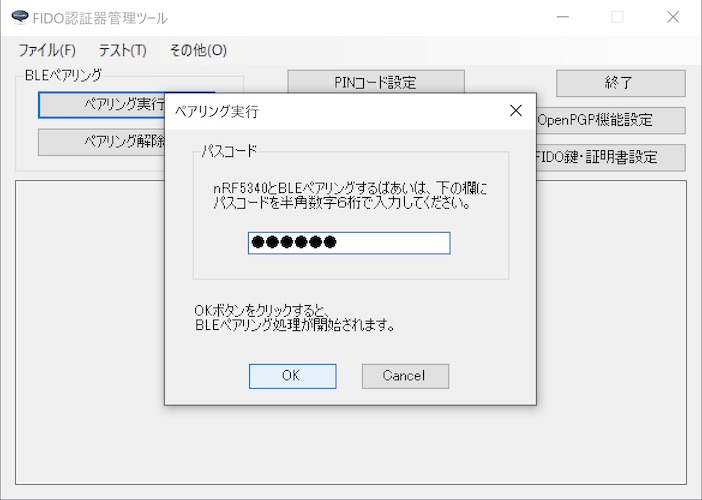
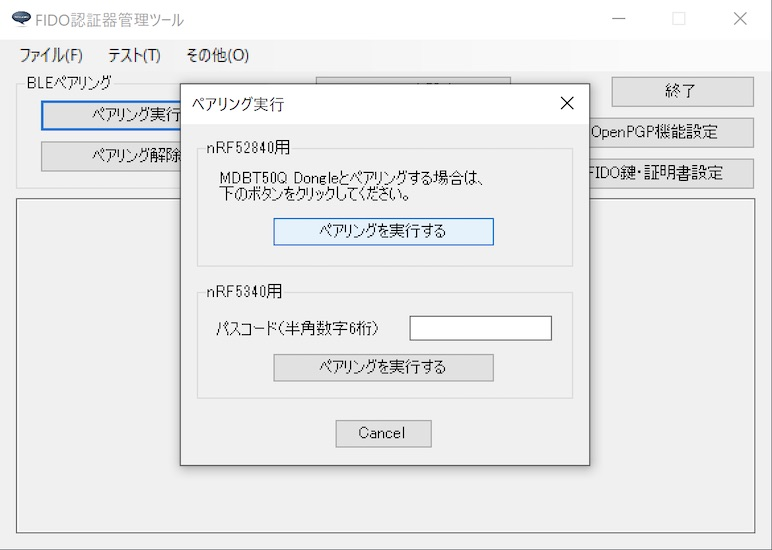
ドキュメントを更新
・画面コピーを差し替え
・説明を修正

diff --git a/MaintenanceTool/WindowsExe/BLEPAIRING.md b/MaintenanceTool/WindowsExe/BLEPAIRING.md
@@ -51,10 +51,10 @@ MDBT50Q Dongleの場合は、基板上のボタンを３秒以上長押してか
 ペアリング実行画面がポップアップ表示されます。
 
 [MDBT50Q Dongle](../../FIDO2Device/MDBT50Q_Dongle/README.md)（nRF52840基板）の場合、パスコード入力は不要です。<br>
-パスコード入力欄は何も入力しないでください。<br>
-nRF5340基板の場合のみ、半角数字６桁のパスコードを入力します。
+画面上部のグループ内にある「ペアリングを実行する」ボタンをクリックします。
 
-ペアリング処理を開始するには「OK」ボタンをクリックします。
+nRF5340基板の場合は、パスコード入力が必要です。<br>
+画面下部のグループ内にある入力欄に、半角数字６桁のパスコードを入力し「ペアリングを実行する」ボタンをクリックします。
 
 <img src="assets06/0025.jpg" width="400">
 
